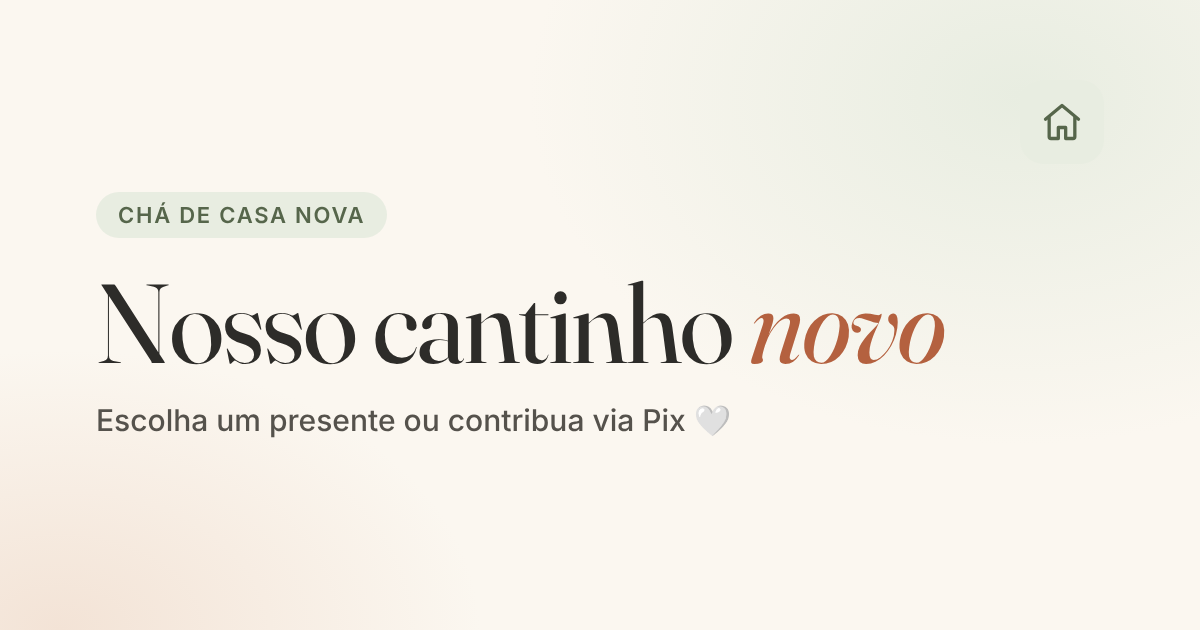
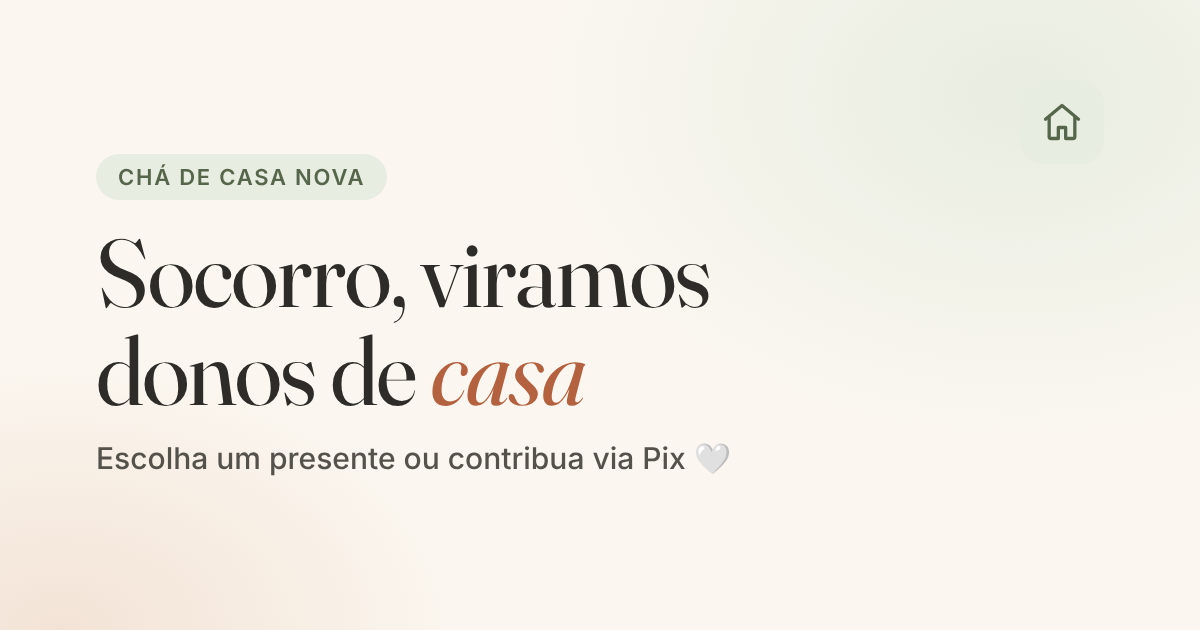
Configura o Pix e muda o título para "Socorro, viramos donos de casa"
Claude-Session: https://claude.ai/code/session_0156PLaGdULdbFKhiFBYaJV6

diff --git a/docs/estilo.css b/docs/estilo.css
@@ -33,7 +33,7 @@ svg.i{width:16px;height:16px;fill:none;stroke:currentColor;stroke-width:1.7;stro
 .hero{display:flex;justify-content:space-between;align-items:flex-start;gap:40px;padding-top:40px;padding-bottom:8px}
 .eyebrow{display:inline-flex;align-items:center;gap:8px;font-size:12px;font-weight:600;letter-spacing:.06em;text-transform:uppercase;color:var(--sage-d);background:var(--sage-l);border-radius:999px;padding:6px 12px}
 .eyebrow svg{width:13px;height:13px}
-.hero h1{font-size:clamp(38px,6vw,62px);line-height:1.04;font-weight:400;letter-spacing:-.015em;margin:14px 0 12px}
+.hero h1{text-wrap:balance;font-size:clamp(38px,6vw,62px);line-height:1.04;font-weight:400;letter-spacing:-.015em;margin:14px 0 12px}
 .hero h1 em{font-style:italic;color:var(--terra)}
 .lead{font-size:16px;line-height:1.65;color:var(--ink-2);max-width:580px}
 .how{width:360px;flex:none;background:var(--surface);border:1px solid var(--line);border-radius:var(--r);padding:18px 20px;box-shadow:var(--shadow)}
@@ -147,7 +147,7 @@ svg.i{width:16px;height:16px;fill:none;stroke:currentColor;stroke-width:1.7;stro
 .orlbl{display:flex;align-items:center;gap:10px;font-size:12.5px;color:var(--muted)}
 .orlbl:before,.orlbl:after{content:"";flex:1;height:1px;background:var(--line)}
 .keyrow{display:flex;gap:8px}
-.key{flex:1;min-width:0;height:44px;border-radius:12px;border:1px dashed var(--line-2);background:#FAF7F2;display:flex;align-items:center;padding:0 12px;font-size:13px;color:var(--ink-2);overflow:hidden;text-overflow:ellipsis;white-space:nowrap}
+.key{flex:1;min-width:0;height:44px;border-radius:12px;border:1px dashed var(--line-2);background:#FAF7F2;display:flex;align-items:center;padding:0 10px;font-size:12px;letter-spacing:-.01em;color:var(--ink-2);overflow:hidden;text-overflow:ellipsis;white-space:nowrap}
 .copy{height:44px;border-radius:12px;background:var(--sage-d);color:#fff;font-size:13px;font-weight:600;padding:0 14px;display:flex;align-items:center;gap:6px;white-space:nowrap}
 .copy svg{width:14px;height:14px}
 .link-copia{font-size:12.5px;color:var(--sage-d);text-decoration:underline;text-underline-offset:3px;align-self:flex-start}

diff --git a/docs/config.js b/docs/config.js
@@ -3,7 +3,7 @@
 // =====================================================================
 window.LISTA_CONFIG = {
   // Título principal. A última palavra aparece em destaque (itálico).
-  titulo: "Nosso cantinho novo",
+  titulo: "Socorro, viramos donos de casa",
 
   // Etiqueta pequena acima do título (ex.: "Chá de casa nova · 6 de dezembro").
   etiqueta: "Chá de casa nova",
@@ -15,9 +15,9 @@ window.LISTA_CONFIG = {
 
   // Dados do Pix. Enquanto "chave" estiver vazia, a área de Pix avisa que ainda não foi configurada.
   pix: {
-    chave: "",           // CPF, celular (+5511999999999), e-mail ou chave aleatória
-    nomeRecebedor: "",   // nome que aparece no app do banco (até 25 letras)
-    cidade: "",          // cidade do recebedor (até 15 letras)
+    chave: "e9256fb2-856f-470a-a146-8e4bbeb12d15",           // CPF, celular (+5511999999999), e-mail ou chave aleatória
+    nomeRecebedor: "Murilo Antonio do Amaral",   // nome que aparece no app do banco (até 25 letras)
+    cidade: "Ribeirão Preto",          // cidade do recebedor (até 15 letras)
     // Opcional: em vez de gerar o QR Code a partir da chave, use a imagem do QR do seu banco
     // (coloque o arquivo na pasta docs/img e escreva aqui, ex.: "img/qr-pix.png").
     imagemQr: "",

diff --git a/docs/index.html b/docs/index.html
@@ -3,11 +3,11 @@
 <head>
 <meta charset="utf-8">
 <meta name="viewport" content="width=device-width, initial-scale=1, viewport-fit=cover">
-<title>Nosso cantinho novo · Lista de presentes</title>
+<title>Socorro, viramos donos de casa · Lista de presentes</title>
 <meta name="description" content="Lista de presentes do nosso chá de casa nova. Escolha um presente ou contribua via Pix.">
 <meta name="theme-color" content="#FBF7F0">
 <meta property="og:type" content="website">
-<meta property="og:title" content="Nosso cantinho novo · Lista de presentes">
+<meta property="og:title" content="Socorro, viramos donos de casa · Lista de presentes">
 <meta property="og:description" content="Escolha um presente para reservar ou contribua via Pix.">
 <meta property="og:image" content="https://murilo-amaral.github.io/Lista-de-presentes/img/compartilhar.png">
 <meta property="og:image:width" content="1200">

diff --git a/docs/app.js b/docs/app.js
@@ -34,7 +34,7 @@
 
   // ---------- textos do topo ----------
   function textos() {
-    var t = (CFG.titulo || "Nosso cantinho novo").trim();
+    var t = (CFG.titulo || "Socorro, viramos donos de casa").trim();
     var i = t.lastIndexOf(" ");
     var h1 = $("#titulo");
     if (i > 0) { h1.appendChild(document.createTextNode(t.slice(0, i + 1))); h1.appendChild(el("em", { text: t.slice(i + 1) })); }

diff --git a/LEIA-ME.md b/LEIA-ME.md
@@ -1,4 +1,4 @@
-# Lista de presentes — Nosso cantinho novo
+# Lista de presentes — Socorro, viramos donos de casa
 
 Site público da lista de presentes do chá de casa nova. Os convidados abrem o link, sem login e sem cadastro, e podem:
 
